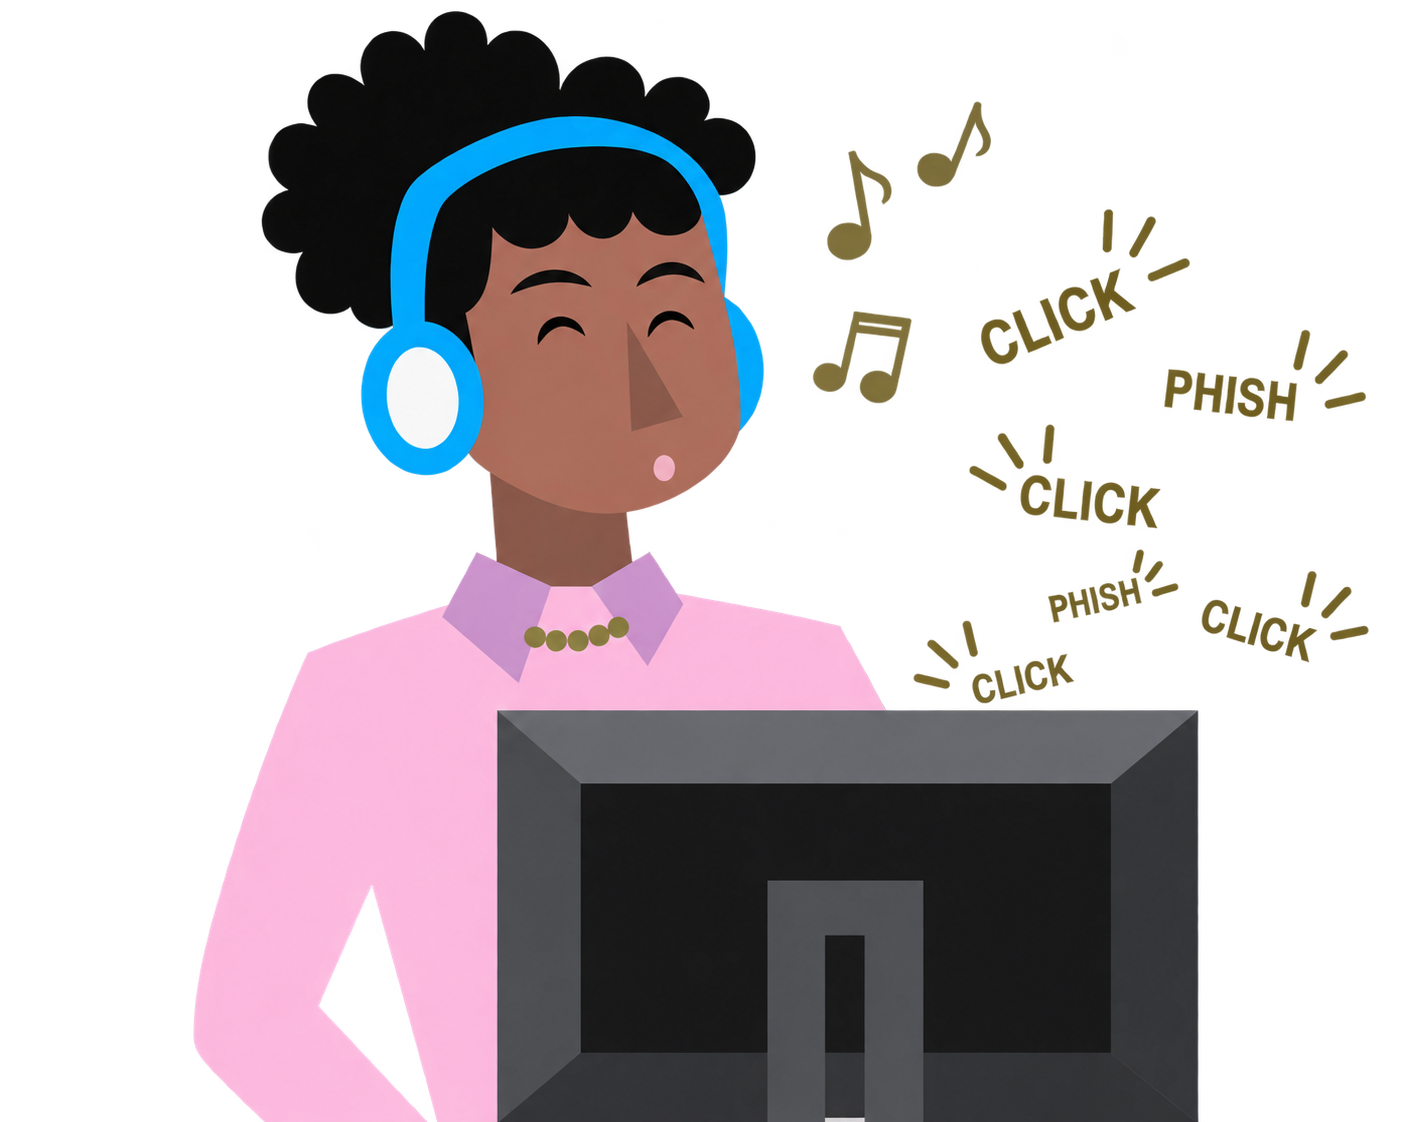
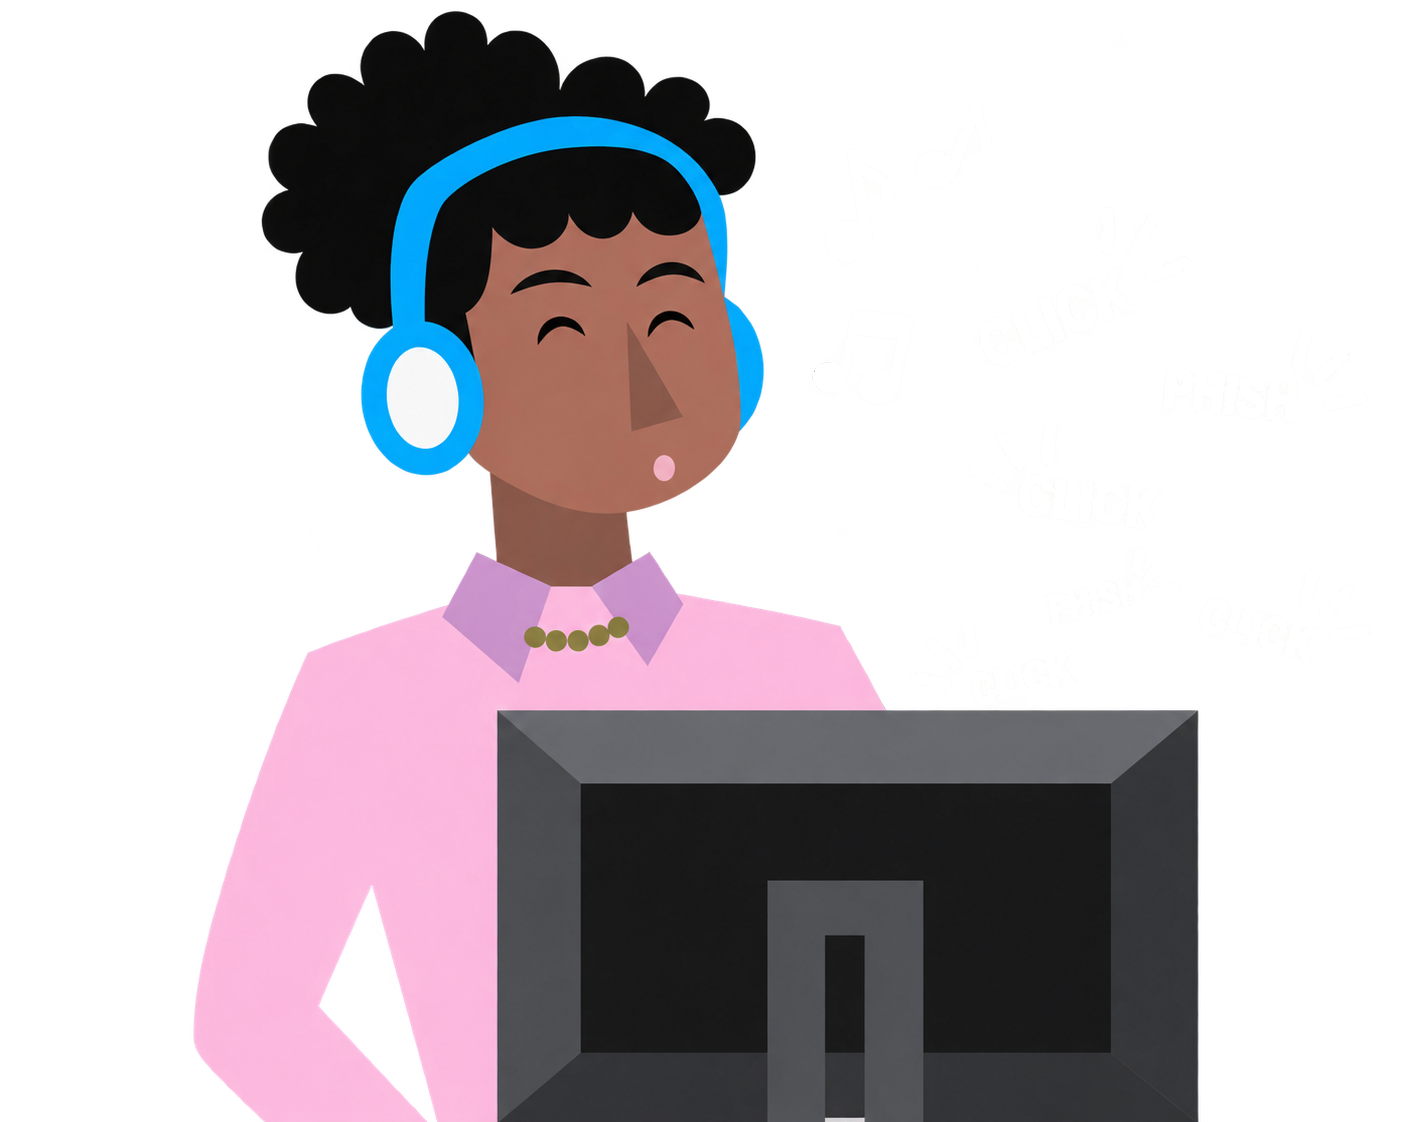
feat: site updates including threats headers, cat asset, lining numerals, and core team

diff --git a/src/app/page.tsx b/src/app/page.tsx
@@ -5,16 +5,23 @@ export default function Home() {
    <main>
       <header className="flex flex-col gap-6 text-2xl max-w-5xl mx-auto">
         <h1 className="h1">Skilled in detection and prevention</h1>
-        <div className="max-w-[800px] mx-auto">
-          <Image src="/images/cat.png" width={800} height={800} alt="cat image" className="" unoptimized />
+        <div className="w-full max-w-[800px] mx-auto my-2">
+          <Image
+            src="/images/cat-v3.png"
+            width={800}
+            height={387}
+            alt="Conatix Caracal cat"
+            className="w-full h-auto object-contain"
+            priority
+          />
         </div>
-        <p className="text-xl font-light text-light-grey text-left">The caracal is a wild jungle cat known for its oversized ears for detecting, and its ruthlessness in pursuing, prey</p>
+        <p className="text-xl font-light text-light-grey text-left">The caracal is a wild jungle cat known for its oversized ears for detecting, and its ruthlessness in pursuing, its prey</p>
         <p>Conatix protects against the most critical threats and vulnerabilities on your organization’s IT network – malware, ransomware and insider fraud.</p>
         <div>
           <p>We catch malicious files and suspicious events in real time or stop them before they start.</p>
           <p>Better. Faster. Earlier. Zero Trust. Zero Day.</p>
         </div>
-        <p>Conatix pioneered applying and combining multiple frontier technologies for cybersecurity monitoring, detection and prevention: our own patented anti-encryption technology; dynamic 3D network visualization; deep learning, machine learning, and gen AI. Even <span className="text-khaki-bright font-medium">before</span> it was cool.</p>
+        <p>Conatix has pioneered applying and combining multiple frontier technologies for cybersecurity monitoring, detection and prevention: technologies like our own patented anti-encryption method; dynamic <span className="font-sans">3D</span> network visualization; deep learning; machine learning; and gen AI. Even <span className="text-khaki-bright font-normal">before</span> it was cool.</p>
       </header>
    </main>
   );

diff --git a/src/app/solutions/insider-fraud/page.tsx b/src/app/solutions/insider-fraud/page.tsx
@@ -3,6 +3,9 @@ import Image from "next/image"
 interface InsiderFraudData {
   description: string,
   imgUrl: string,
+  imgWidth?: number,
+  imgHeight?: number,
+  altText?: string,
 }
 
 const insiderfraudData: InsiderFraudData[] = [
@@ -19,16 +22,23 @@ const insiderfraudData: InsiderFraudData[] = [
   }, {
     description: "This is some text. This is some text. This is some text. This is some text. This is some text. This is some text. This is some text. This is some text. This is some text. This is some text. This is some text. This is some text.",
     imgUrl: "/animations/insider-fraud/insider-fraud-2.gif"
+  },
+  {
+    description: "Insider fraud can also threaten your IoT, field, or critical infrastructure network. Any connected vehicle that receives a software update from the manufacturer is susceptible to insider fraud.",
+    imgUrl: "/images/threats/van-top-v4.png",
+    imgWidth: 800,
+    imgHeight: 450,
+    altText: "Top view of an ambulance image",
   }
 ]
 
 export default function InsiderFraudPage() {
 
-  const visualizationEntries = insiderfraudData.map(({description, imgUrl}:InsiderFraudData, i) => {
+  const visualizationEntries = insiderfraudData.map(({description, imgUrl, imgWidth, imgHeight, altText}:InsiderFraudData, i) => {
     return (
       <div key={i} className="max-w-[800px]">
         <p className="mb-5 text-xl">{description}</p>
-        <Image src={imgUrl} width={800} height={800} alt="insider fraud visualizations" />
+        <Image src={imgUrl} width={imgWidth ?? 800} height={imgHeight ?? 800} alt={altText ?? "insider fraud visualizations"} />
       </div>
     )
   })

diff --git a/src/app/threats/page.tsx b/src/app/threats/page.tsx
@@ -18,7 +18,7 @@ export default function ThreatsPage() {
 
       <section className="flex flex-col gap-4 items-center justify-center mb-15">
         <p className="w-full max-w-[1000px] mx-auto text-left text-xl font-light text-light-grey">
-          Ransomware, like malware still one of the most pervasive and costly cyber threats.
+          Ransomware, like malware, is still one of the most pervasive and costly cyber threats…and is present in nearly half of all breaches.
         </p>
 
         {/* Text-based Data Table and 374X Callout with Catamaran lining numbers */}
@@ -52,8 +52,8 @@ export default function ThreatsPage() {
 
           {/* Right: 374X Callout */}
           <div className="w-full lg:w-[28%] flex flex-col items-center justify-center text-center font-catamaran">
-            <span className="text-6xl md:text-7xl lg:text-8xl font-light text-khaki tracking-tight leading-none mb-2">
-              374X
+            <span className="text-6xl md:text-7xl lg:text-8xl font-bold text-khaki tracking-tight leading-none mb-2">
+              374<span className="inline-block relative top-[0.1em]">X</span>
             </span>
             <p className="text-electric-blue text-base md:text-lg font-light leading-snug">
               Projected total increase in<br />

diff --git a/src/lib/threats.ts b/src/lib/threats.ts
@@ -18,15 +18,9 @@ export const ThreatsPageData: ThreatsPageDataProps[] = [
     maxWidth: 1000,
   },
   {
-    description: "Insider fraud can threaten your IoT, field, or critical infrastructure network",
+    description: "Insider fraud can also threaten your IoT, field, or critical infrastructure network. Any connected vehicle that receives a software update from the manufacturer is susceptible to insider fraud.",
     imageUrl: "/images/threats/van-side-v3.png",
     altText: "Side view of an ambulance image",
-    maxWidth: 1000,
-  },
-  {
-    description: "Any connected vehicle that receives software update from the manufacturer is susceptible to insider fraud",
-    imageUrl: "/images/threats/van-top-v4.png",
-    altText: "Top view of an ambulance image",
     maxWidth: 1000,
   },
 ];

diff --git a/src/app/layout.tsx b/src/app/layout.tsx
@@ -86,7 +86,7 @@ export default function RootLayout({
 }>) {
   return (
     <html lang="en" className={fonts}>
-      <body className="min-h-screen flex flex-col bg-grey font-catamaran text-white">
+      <body className="min-h-screen flex flex-col bg-grey font-catamaran text-white [font-variant-numeric:lining-nums_tabular-nums] [font-feature-settings:'lnum'_1,'tnum'_1]">
         <CartProvider>
           {/*navbar conditional rendering using tailwind styling */}
           <div className="hidden lg:block sticky top-0 z-50">

diff --git a/src/app/globals.css b/src/app/globals.css
@@ -34,6 +34,10 @@ See other font weight styling here: https://tailwindcss.com/docs/font-weight.
 
 /* base styles for certain HTML elements */
 @layer base {
+  body {
+    font-variant-numeric: lining-nums tabular-nums;
+    font-feature-settings: "lnum" 1, "tnum" 1;
+  }
   h1 {
     @apply text-5xl mb-5
   }

diff --git a/src/lib/core.ts b/src/lib/core.ts
@@ -38,8 +38,8 @@ export const coreTeam: CoreMember[] = [
     image: "/images/team/core-doreen-duoduaah.jpg",
   },
   {
-    name: "Thein Htike Zaw",
-    role: "AI Engineer",
-    image: "/images/team/core-thein-htike-zaw.jpg",
+    name: "Bhranti",
+    role: "",
+    image: "", // pending photo
   },
 ];

diff --git a/src/app/threats/insider-fraud/page.tsx b/src/app/threats/insider-fraud/page.tsx
@@ -3,7 +3,8 @@ import { insiderFraudPageData } from "@/lib/threats"
 
 export default function InsiderFraudPage() {
   return (
-    <main>
+    <main className="mt-4">
+      <h1 className="h1">Insider Threat</h1>
       <AlternatingSection data={insiderFraudPageData} />
     </main>
   )

diff --git a/src/app/threats/supplier/page.tsx b/src/app/threats/supplier/page.tsx
@@ -4,6 +4,7 @@ import OneColumnLayout from "@/components/layout/OneColumnLayout"
 export default function SupplierPage() {
   return (
     <main>
+      <h1 className="h1">Supplier Threat</h1>
       <OneColumnLayout data={supplierPageData} />
     </main>
   )

diff --git a/src/app/threats/ransomware/page.tsx b/src/app/threats/ransomware/page.tsx
@@ -4,6 +4,7 @@ import { ransomwarePageData } from "@/lib/threats"
 export default function RansomwarePage() {
   return (
     <main>
+      <h1 className="h1">Ransomware Threat</h1>
       <AlternatingSection data={ransomwarePageData} />
     </main>
   )

diff --git a/src/app/solutions/ransomware/page.tsx b/src/app/solutions/ransomware/page.tsx
@@ -4,6 +4,7 @@ import { ransomwarePageData } from "@/lib/solutions"
 export default function RansomwarePage() {
   return (
     <main>
+      <h1 className="h1">Ransomware Threat</h1>
       <OneColumnLayout data={ransomwarePageData} />
     </main>
   )

diff --git a/src/app/solutions/malware/page.tsx b/src/app/solutions/malware/page.tsx
@@ -25,6 +25,7 @@ export default function MalwarePage() {
   
   return (
     <main>
+      <h1 className="h1">Malware Threats</h1>
       <div className="flex flex-col items-center justify-center gap-6 md:flex-row">
         {malwareFlow}
       </div>
